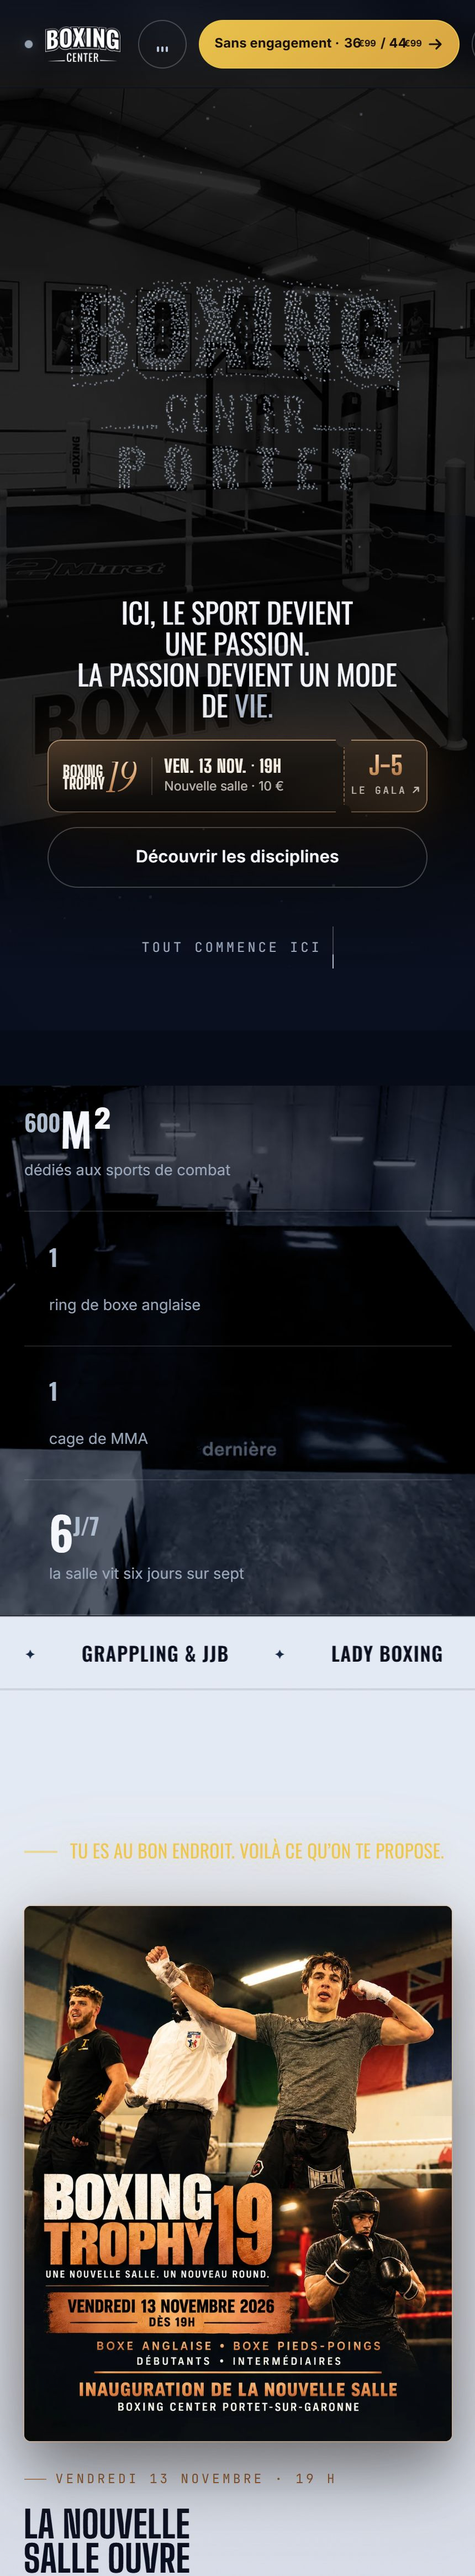
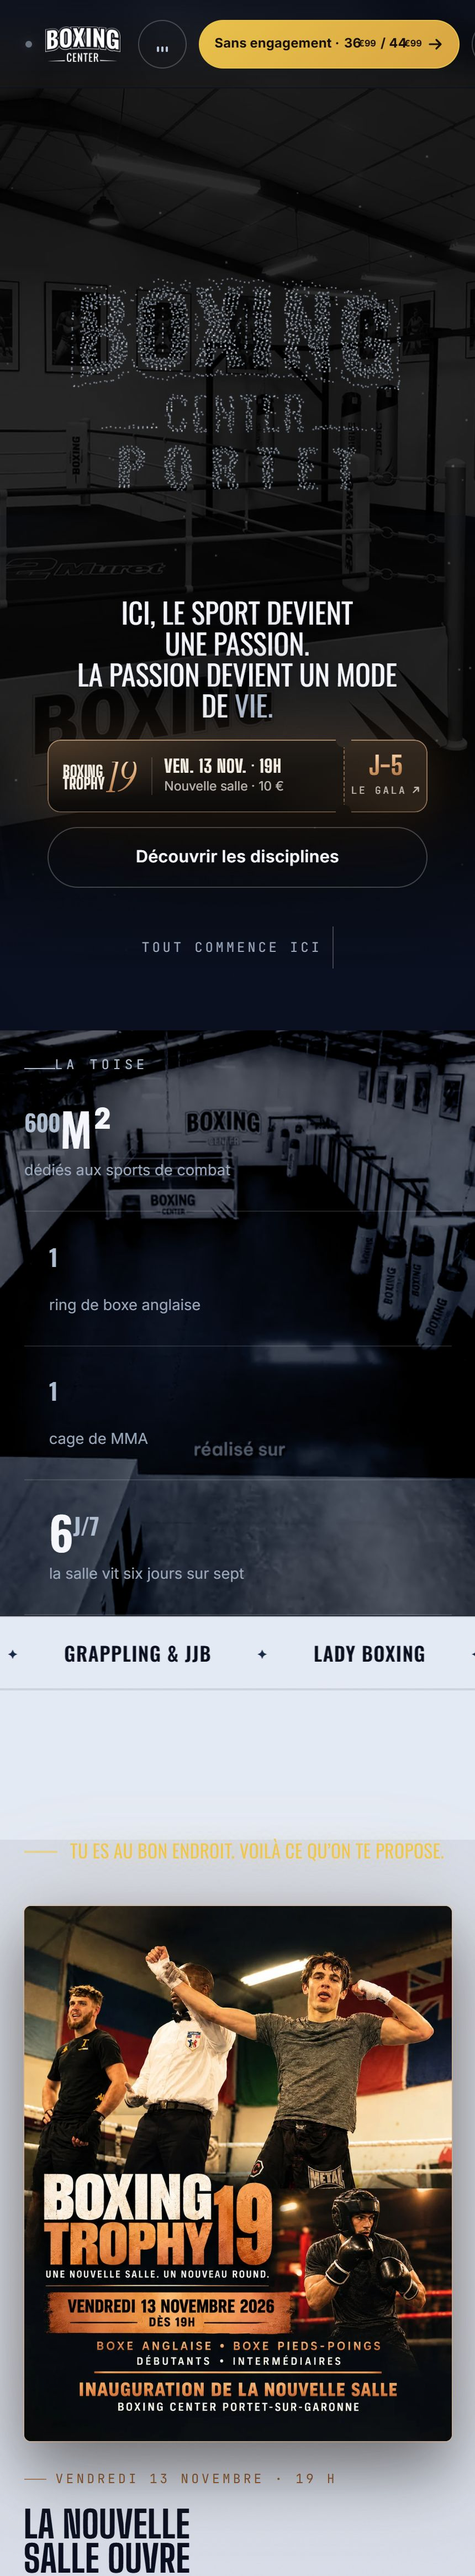
registre(eam): neuf captures téléphone reprises — plus de bande sombre ni d'en-tête flottant dans les défilements, les images au bord des écrans sont entières
Sur les fiches de Castelginest, Cugnaux, Muret, Saint-Cyprien et États-Unis, l'image ou le bouton qui apparaissait au bord d'un écran manquait à la couture : ils sont là. Sur Minimes, Portet, Ramonville et ID Skillz, une bande sombre barrait la capture sous le premier écran : elle a disparu. L'en-tête d'États-Unis ne flotte plus au milieu de la page.

La marche qui photographie les sites attend l'arrêt complet du défilement avant chaque prise et vérifie où elle a atterri (les sites en défilement doux glissaient 70 px trop bas et laissaient la bande vide), masque les barres fixes par l'opacité (un logo gardait sa propre visibilité sous un en-tête masqué), ne garde une prise que si la suivante lui ressemble carreau par carreau, et ne regarde plus un écran plus loin avant chaque prise : le recouvrement de 200 px suffit, et repasser deux fois sur un bloc n'est pas neutre. L'assemblage refuse désormais toute capture dont un écran laisse une bande non couverte.

diff --git a/scripts/capture-convert.py b/scripts/capture-convert.py
@@ -21,6 +21,7 @@ facts = json.load(open(os.path.join(sweep, 'facts.json'), encoding='utf-8'))
 SCREEN2X = 1864
 MAX2X = 4660
 report = []
+gaps = []
 
 for slug, f in sorted(facts.items()):
     if only and slug not in only:
@@ -44,6 +45,14 @@ for slug, f in sorted(facts.items()):
         tiles.append((s['y'] * 2, im))
     doc_h2x = int((f.get('phone') or {}).get('docH', 932)) * 2
     height = max(SCREEN2X, min(MAX2X, doc_h2x, max(y + im.size[1] for y, im in tiles)))
+    # Coverage guard: a segment pasted below the previous one's bottom leaves a
+    # band of canvas — a dark bar across the capture (2026-11-08: the walk landed
+    # ~70 px low on Lenis sites). Such a stitch is refused, never shipped.
+    covered = 0
+    for y, im in tiles:
+        if y > covered:
+            gaps.append(f'{slug}: {y - covered} px uncovered at {covered}')
+        covered = max(covered, y + im.size[1])
     canvas = Image.new('RGB', (860, height), (7, 13, 24))
     for y, im in tiles:
         canvas.paste(im, (0, y))
@@ -53,3 +62,8 @@ for slug, f in sorted(facts.items()):
 for slug, line in report:
     print(f'{slug:28} {line}')
 print('converted', len(report))
+if gaps:
+    print('UNCOVERED BANDS — reshoot these, the stitch is not shippable:')
+    for g in gaps:
+        print('  ' + g)
+    sys.exit(1)
